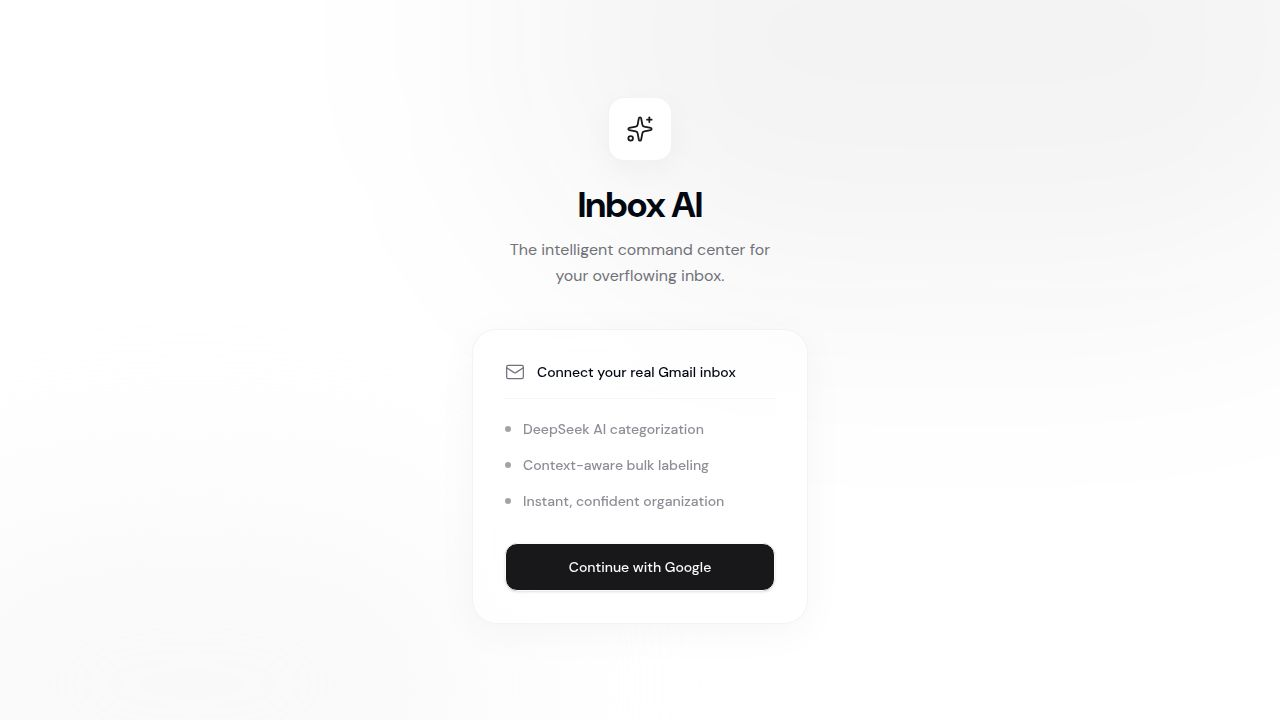
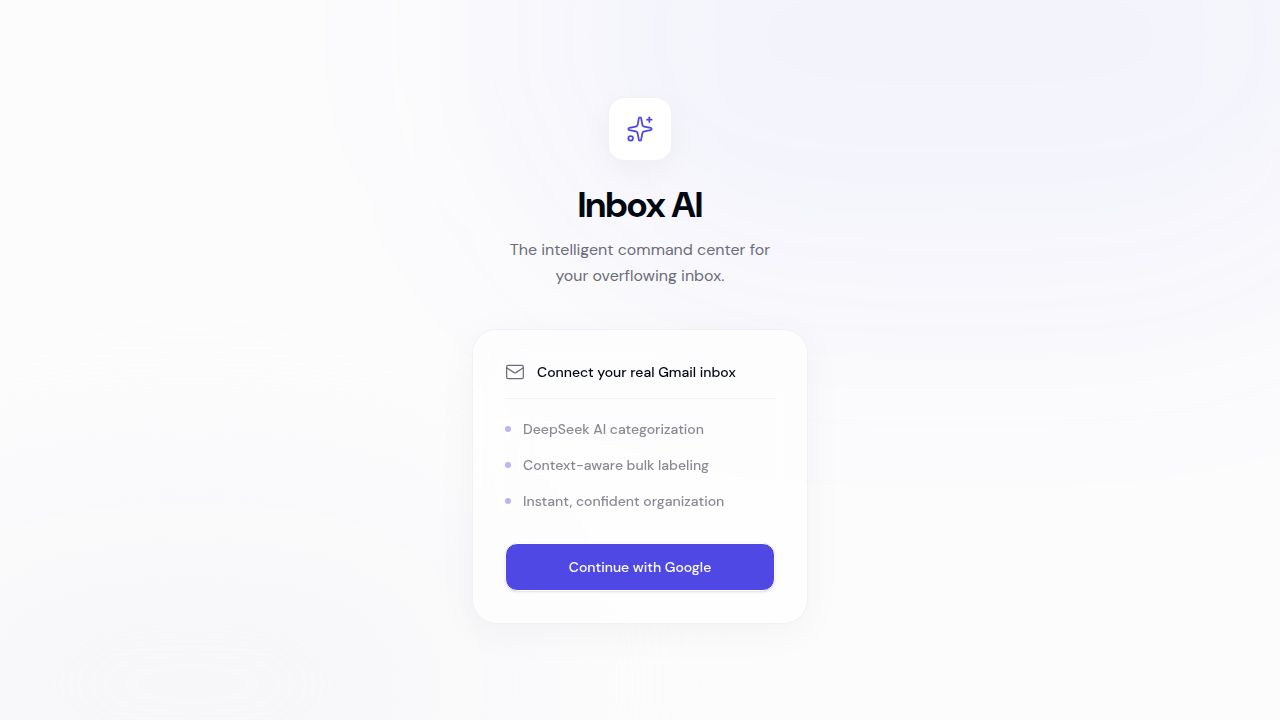
Highlight the currently selected label in the sidebar
Task #3: The sidebar label links only had a hover state, so it was easy to
lose track of which label/view filter was applied.

Changes (artifacts/inbox-ai/src/components/layout/sidebar.tsx):
- Parse the active labelId from the current search string (useSearch()).
- Apply the same active style used by nav items (bg-sidebar-accent +
  text-sidebar-accent-foreground + shadow-sm) to the label link whose id
  matches ?labelId=. Its email-count badge stays fully visible when active.
- "All mail / Inbox" affordance: the Inbox nav item no longer claims the
  active state while a specific label is selected, so the active highlight
  is owned solely by the matching label.

Verified with `pnpm --filter @user/inbox-ai run typecheck` (passes).
No backend/API changes. Visual-only; could not screenshot the authed view
since it requires Google OAuth sign-in.

Replit-Task-Id: 92e56488-e249-4200-8884-167f96f412e7

Changed region(s): [[0.375, 0.7333, 0.625, 0.825], [0.5, 0.1528, 0.5312, 0.1833]]

diff --git a/artifacts/inbox-ai/src/components/layout/sidebar.tsx b/artifacts/inbox-ai/src/components/layout/sidebar.tsx
@@ -78,6 +78,8 @@ export function Sidebar({ user }: { user: User }) {
     });
   };
 
+  const activeLabelId = new URLSearchParams(searchString).get("labelId");
+
   const navItems = [
     { href: "/", label: "Overview", icon: LayoutDashboard },
     { href: "/inbox", label: "Inbox", icon: Inbox },
@@ -118,7 +120,12 @@ export function Sidebar({ user }: { user: User }) {
       <div className="flex-1 overflow-y-auto py-6 flex flex-col gap-8">
         <div className="px-4 space-y-1">
           {navItems.map((item) => {
-            const isActive = location === item.href || (item.href !== "/" && location.startsWith(item.href));
+            const matchesPath =
+              location === item.href || (item.href !== "/" && location.startsWith(item.href));
+            // When viewing a specific label, the Inbox item is "All mail" and shouldn't
+            // claim the active state — the matching label below owns it instead.
+            const isActive =
+              item.href === "/inbox" ? matchesPath && !activeLabelId : matchesPath;
             const Icon = item.icon;
             return (
               <Link key={item.href} href={item.href}>
@@ -143,26 +150,37 @@ export function Sidebar({ user }: { user: User }) {
             Your Labels
           </div>
           <div className="space-y-0.5">
-            {labels.map((label) => (
-              <Link key={label.id} href={`/inbox?labelId=${label.id}`}>
-                <div
-                  className="flex items-center justify-between px-3 py-2 rounded-xl text-sm cursor-pointer hover:bg-sidebar-accent text-sidebar-foreground/80 hover:text-sidebar-foreground transition-all group"
-                >
-                  <div className="flex items-center gap-3 truncate">
-                    <span 
-                      className="w-2 h-2 rounded-full shrink-0" 
-                      style={{ backgroundColor: label.color || '#888' }} 
-                    />
-                    <span className="truncate font-medium">{label.name}</span>
+            {labels.map((label) => {
+              const isActive = activeLabelId === label.id;
+              return (
+                <Link key={label.id} href={`/inbox?labelId=${label.id}`}>
+                  <div
+                    className={cn(
+                      "flex items-center justify-between px-3 py-2 rounded-xl text-sm cursor-pointer transition-all group",
+                      isActive
+                        ? "bg-sidebar-accent text-sidebar-accent-foreground shadow-sm"
+                        : "hover:bg-sidebar-accent text-sidebar-foreground/80 hover:text-sidebar-foreground"
+                    )}
+                  >
+                    <div className="flex items-center gap-3 truncate">
+                      <span 
+                        className="w-2 h-2 rounded-full shrink-0" 
+                        style={{ backgroundColor: label.color || '#888' }} 
+                      />
+                      <span className="truncate font-medium">{label.name}</span>
+                    </div>
+                    {label.emailCount > 0 && (
+                      <span className={cn(
+                        "text-[10px] bg-sidebar-accent px-1.5 py-0.5 rounded-[4px] text-sidebar-foreground/60 font-mono font-medium transition-opacity",
+                        isActive ? "opacity-100" : "opacity-0 group-hover:opacity-100"
+                      )}>
+                        {label.emailCount}
+                      </span>
+                    )}
                   </div>
-                  {label.emailCount > 0 && (
-                    <span className="text-[10px] bg-sidebar-accent px-1.5 py-0.5 rounded-[4px] text-sidebar-foreground/60 font-mono font-medium opacity-0 group-hover:opacity-100 transition-opacity">
-                      {label.emailCount}
-                    </span>
-                  )}
-                </div>
-              </Link>
-            ))}
+                </Link>
+              );
+            })}
             {labels.length === 0 && (
               <div className="px-3 py-2 text-xs text-sidebar-foreground/40">
                 No labels created yet.